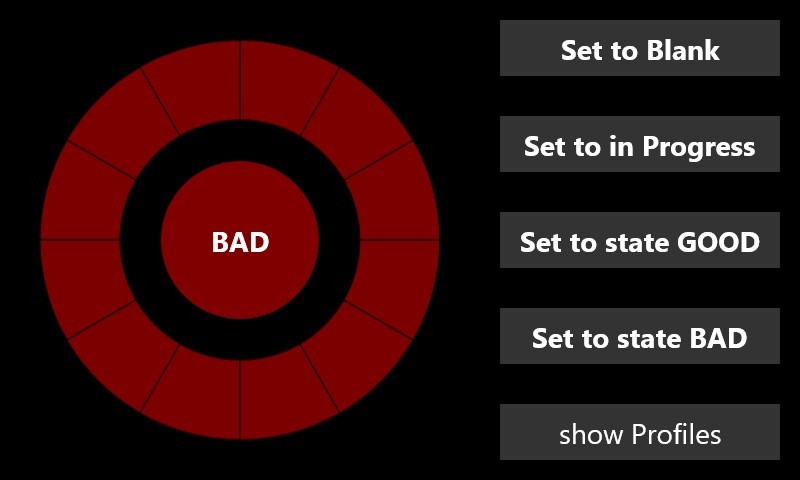
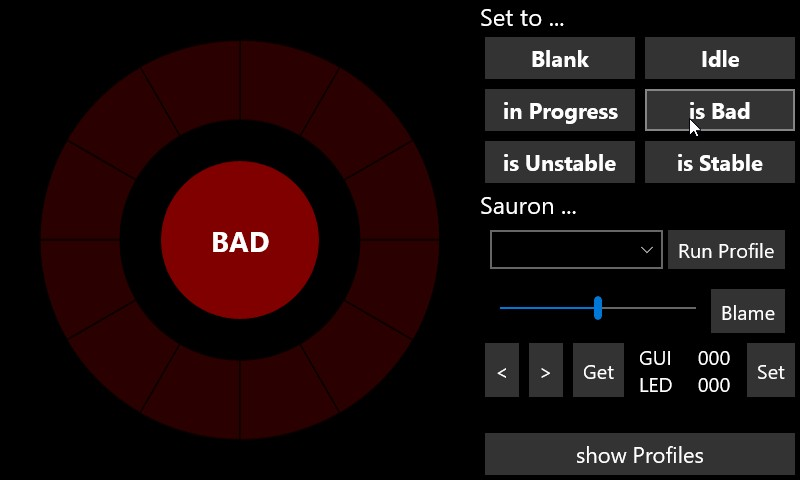
Bugfix and additional documentation
Preview was not refreshed correctly if using Sauron.
Generated some new images

diff --git a/PublicStatusIndicator/MainPage.xaml b/PublicStatusIndicator/MainPage.xaml
@@ -114,6 +114,7 @@
                         <ColumnDefinition Width="auto"/>
                         <ColumnDefinition Width="auto"/>
                         <ColumnDefinition Width="*"/>
+                        <ColumnDefinition Width="*"/>
                         <ColumnDefinition Width="auto"/>
                     </Grid.ColumnDefinitions>
 
@@ -125,10 +126,18 @@
                     <Button Grid.Column="2" Content="Get" Name="GetCurrentFixPoint" 
                             Style="{StaticResource style_SmallButton}" Click="SauronState_Action"/>
 
-                    <TextBlock Grid.Column="3" Name="DirektionDisplay" Text="000" FontSize="24" 
-                               TextAlignment="Center" VerticalAlignment="Center" HorizontalAlignment="Stretch"/>
+                    <StackPanel Grid.Column="3" Orientation="Vertical" Margin="10,0">
+                        <TextBlock Text="GUI" FontSize="20"/>
+                        <TextBlock Text="LED" FontSize="20"/>
+                    </StackPanel>
 
-                    <Button Grid.Column="4" Content="Set" Name="SetFixPointTo"                             
+                    <StackPanel Grid.Column="4" Orientation="Vertical">
+                        <TextBlock Name="DirektionDisplayGUI" Text="000" FontSize="20" TextAlignment="Center" VerticalAlignment="Center" HorizontalAlignment="Stretch"/>
+                        <TextBlock Name="DirektionDisplayLED" Text="000" FontSize="20" TextAlignment="Center" VerticalAlignment="Center" HorizontalAlignment="Stretch"/>
+                    </StackPanel>
+
+
+                    <Button Grid.Column="5" Content="Set" Name="SetFixPointTo"                             
                             Style="{StaticResource style_SmallButton}" Click="SauronState_Action"/>
                 </Grid>
 

diff --git a/PublicStatusIndicator/MainPage.xaml.cs b/PublicStatusIndicator/MainPage.xaml.cs
@@ -149,7 +149,7 @@ namespace PublicStatusIndicator
             CenterColor = new SolidColorBrush(EngineDefines.StateColors[newState]);
 
             // Tell GUI that state is changed
-            (UC_ModePreview as Preview).ChangeState(newState);
+            (UC_ModePreview as Preview).SetState(newState);
 
             // Tell App that stet is changed
             SetNewStateByGui?.Invoke(newState);
@@ -165,37 +165,46 @@ namespace PublicStatusIndicator
         private void SauronState_Action(object sender, RoutedEventArgs e)
         {
             var cmdButton = (Button)sender;
-            EngineState newState = EngineState.Blank;
             switch (cmdButton.Name)
             {
                 case "RunProfile":
                     SetNewProfileByGui?.Invoke((List<ProfileElement>)SauronProfileSelect.SelectedValue);
+                    (UC_ModePreview as Preview).SetProfile((List<ProfileElement>)SauronProfileSelect.SelectedValue);
                     break;
 
                 case "TestSauronBlame":
                     float relativePosition = (float)(RelativeBlamePosition.Value / RelativeBlamePosition.Maximum);
                     SetBlamePosition?.Invoke(relativePosition);
+                    // Tell GUI new Profile
+                    (UC_ModePreview as Preview).SetBlameProfile(relativePosition);
                     break;
 
                 case "GetCurrentFixPoint":
                     float? ret = GetFixPointPosition?.Invoke();
+                    int pos;
                     if (ret != null)
                     {
-                        int pos = (int)(ret * 100) ;
-                        DirektionDisplay.Text = pos.ToString();
+                        pos = (int)(ret * 100) ;
+                        DirektionDisplayGUI.Text = pos.ToString();
                     }
+
+                    float ret2 = (UC_ModePreview as Preview).Preview_GetFixPointPosition();
+                    pos = (int)(ret2 * 100);
+                    DirektionDisplayLED.Text = pos.ToString();
                     break;
 
                 case "SetFixPointTo":
-
+                    SetFixPointTo.Visibility = Visibility.Collapsed;
                     break;
 
                 case "SetFixPointLeft":
                     OnIncrement?.Invoke(0, 1);
+                    (UC_ModePreview as Preview).SetEyePosition(0, 1);
                     break;
 
                 case "SetFixPointRight":
                     OnIncrement?.Invoke(0, -1);
+                    (UC_ModePreview as Preview).SetEyePosition(0, -1);
                     break;
 
                 default:
@@ -206,8 +215,12 @@ namespace PublicStatusIndicator
             CenterColor = new SolidColorBrush(EngineDefines.StateColors[EngineState.Sauron]);
 
             // Tell GUI that state is changed
-            (UC_ModePreview as Preview).ChangeState(newState);
+            (UC_ModePreview as Preview).SetState(EngineState.Sauron);
         }
+
+
+
+
 
         /// <summary>
         /// Display contend

diff --git a/PublicStatusIndicator/GUI_Elements/Preview.xaml.cs b/PublicStatusIndicator/GUI_Elements/Preview.xaml.cs
@@ -60,16 +60,68 @@ namespace PublicStatusIndicator.GUI_Elements
 
         public void RefreshPage()
         {
+            _virtualRing = _virtualIndicator.EffectAccordingToProfile();
+
             _virtualRing = _virtualIndicator.EffectAccordingToState();
             _displayRing.SetAllVaules(_virtualRing);
         }
 
-        public void ChangeState(EngineState newState)
+        public void SetState(EngineState nextState)
         {
-            _virtualIndicator.State = newState;
-            StatusOutput = EngineDefines.StateOutputs[newState];
-            CenterColor = new SolidColorBrush(EngineDefines.StateColors[newState]);
+            _virtualIndicator.State = nextState;
+            if (nextState == EngineState.Sauron)
+            {
+                if (_virtualIndicator.Profile == null)
+                {
+                    _virtualIndicator.Profile = EngineDefines.SummonSauron;
+                }
+            }
+            else
+            {
+                _virtualIndicator.Profile = null;
+            }
+
+            StatusOutput = EngineDefines.StateOutputs[nextState];
+            CenterColor = new SolidColorBrush(EngineDefines.StateColors[nextState]);
         }
+
+        public void SetProfile(List<ProfileElement> profile)
+        {
+            _virtualIndicator.Profile = profile;
+        }
+
+        public void SetEyePosition(int num, int rel)
+        {
+            _virtualIndicator.DeviateSauronsFixPoint(rel);
+        }
+
+        public float Preview_GetFixPointPosition()
+        {
+            int pos;
+            int len;
+            _virtualIndicator.GetSauronsFixPointToLength(out pos, out len);
+
+            return (float)pos / len;
+        }
+
+        public void SetBlameProfile(float newPos)
+        {
+            int pos;
+            int len;
+            _virtualIndicator.GetSauronsFixPointToLength(out pos, out len);
+
+            // Determine Blame position from relativ position
+            int BalemPos = (int)(newPos * len);
+
+            // Start allways about 140° away from demanded blame position (for sake of effect)
+            int PosAtStart = BalemPos - (int)((float)len * 0.4);
+
+            // First look nervously around demanded blame position (for sake of effect)
+            int NevDelta = (int)((float)len * 0.05);
+
+            _virtualIndicator.Profile = EngineDefines.PrepareSauronBlameScript(PosAtStart, NevDelta, BalemPos);
+        }
+
 
         #region PropChanged
         public event PropertyChangedEventHandler PropertyChanged;

diff --git a/PublicStatusIndicator/IndicatorEngine/Effects/SauronEffect.cs b/PublicStatusIndicator/IndicatorEngine/Effects/SauronEffect.cs
@@ -308,7 +308,7 @@ namespace PublicStatusIndicator.IndicatorEngine
                 hBurn = (byte)_fireI.Next(4);
 
                 TempOut[i].R = (byte)(burn + eye + blaze);
-                TempOut[i].G = (byte)(burn * hBurn / 8 + eye * _FireIntensity / MAX_FIRE_INTENS + blaze);
+                TempOut[i].G = (byte)(burn * hBurn / 8 + eye * _FireIntensity / MAX_FIRE_INTENS + blaze/4);
                 TempOut[i].B = (byte)(eye * _FireIntensity / MAX_FIRE_INTENS / 3);
 
                 relIdx += _reductionFactor;
